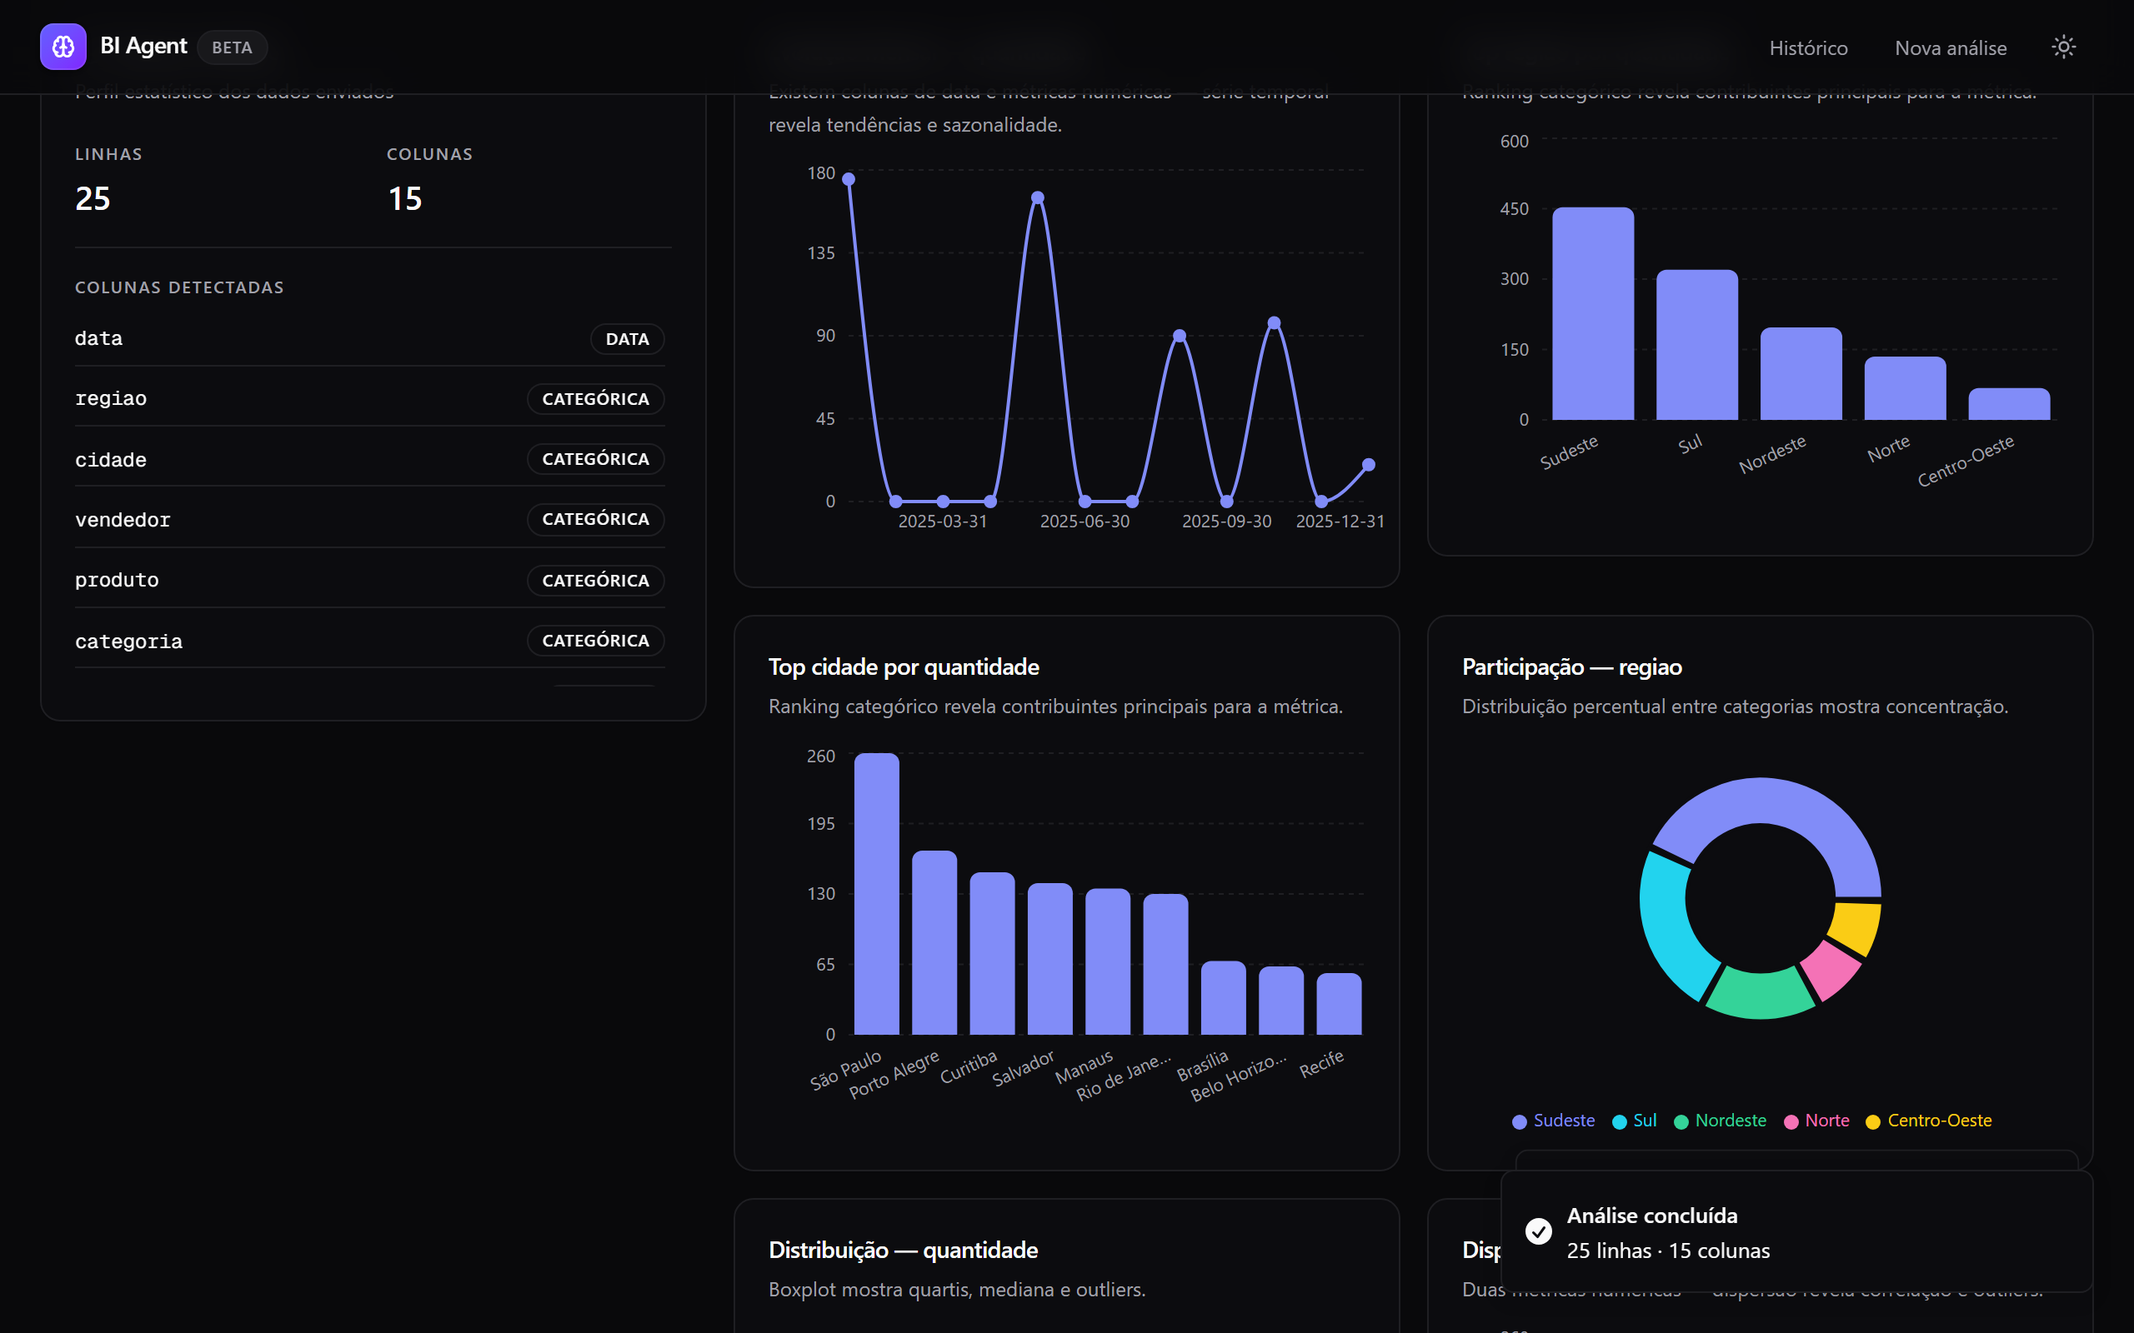
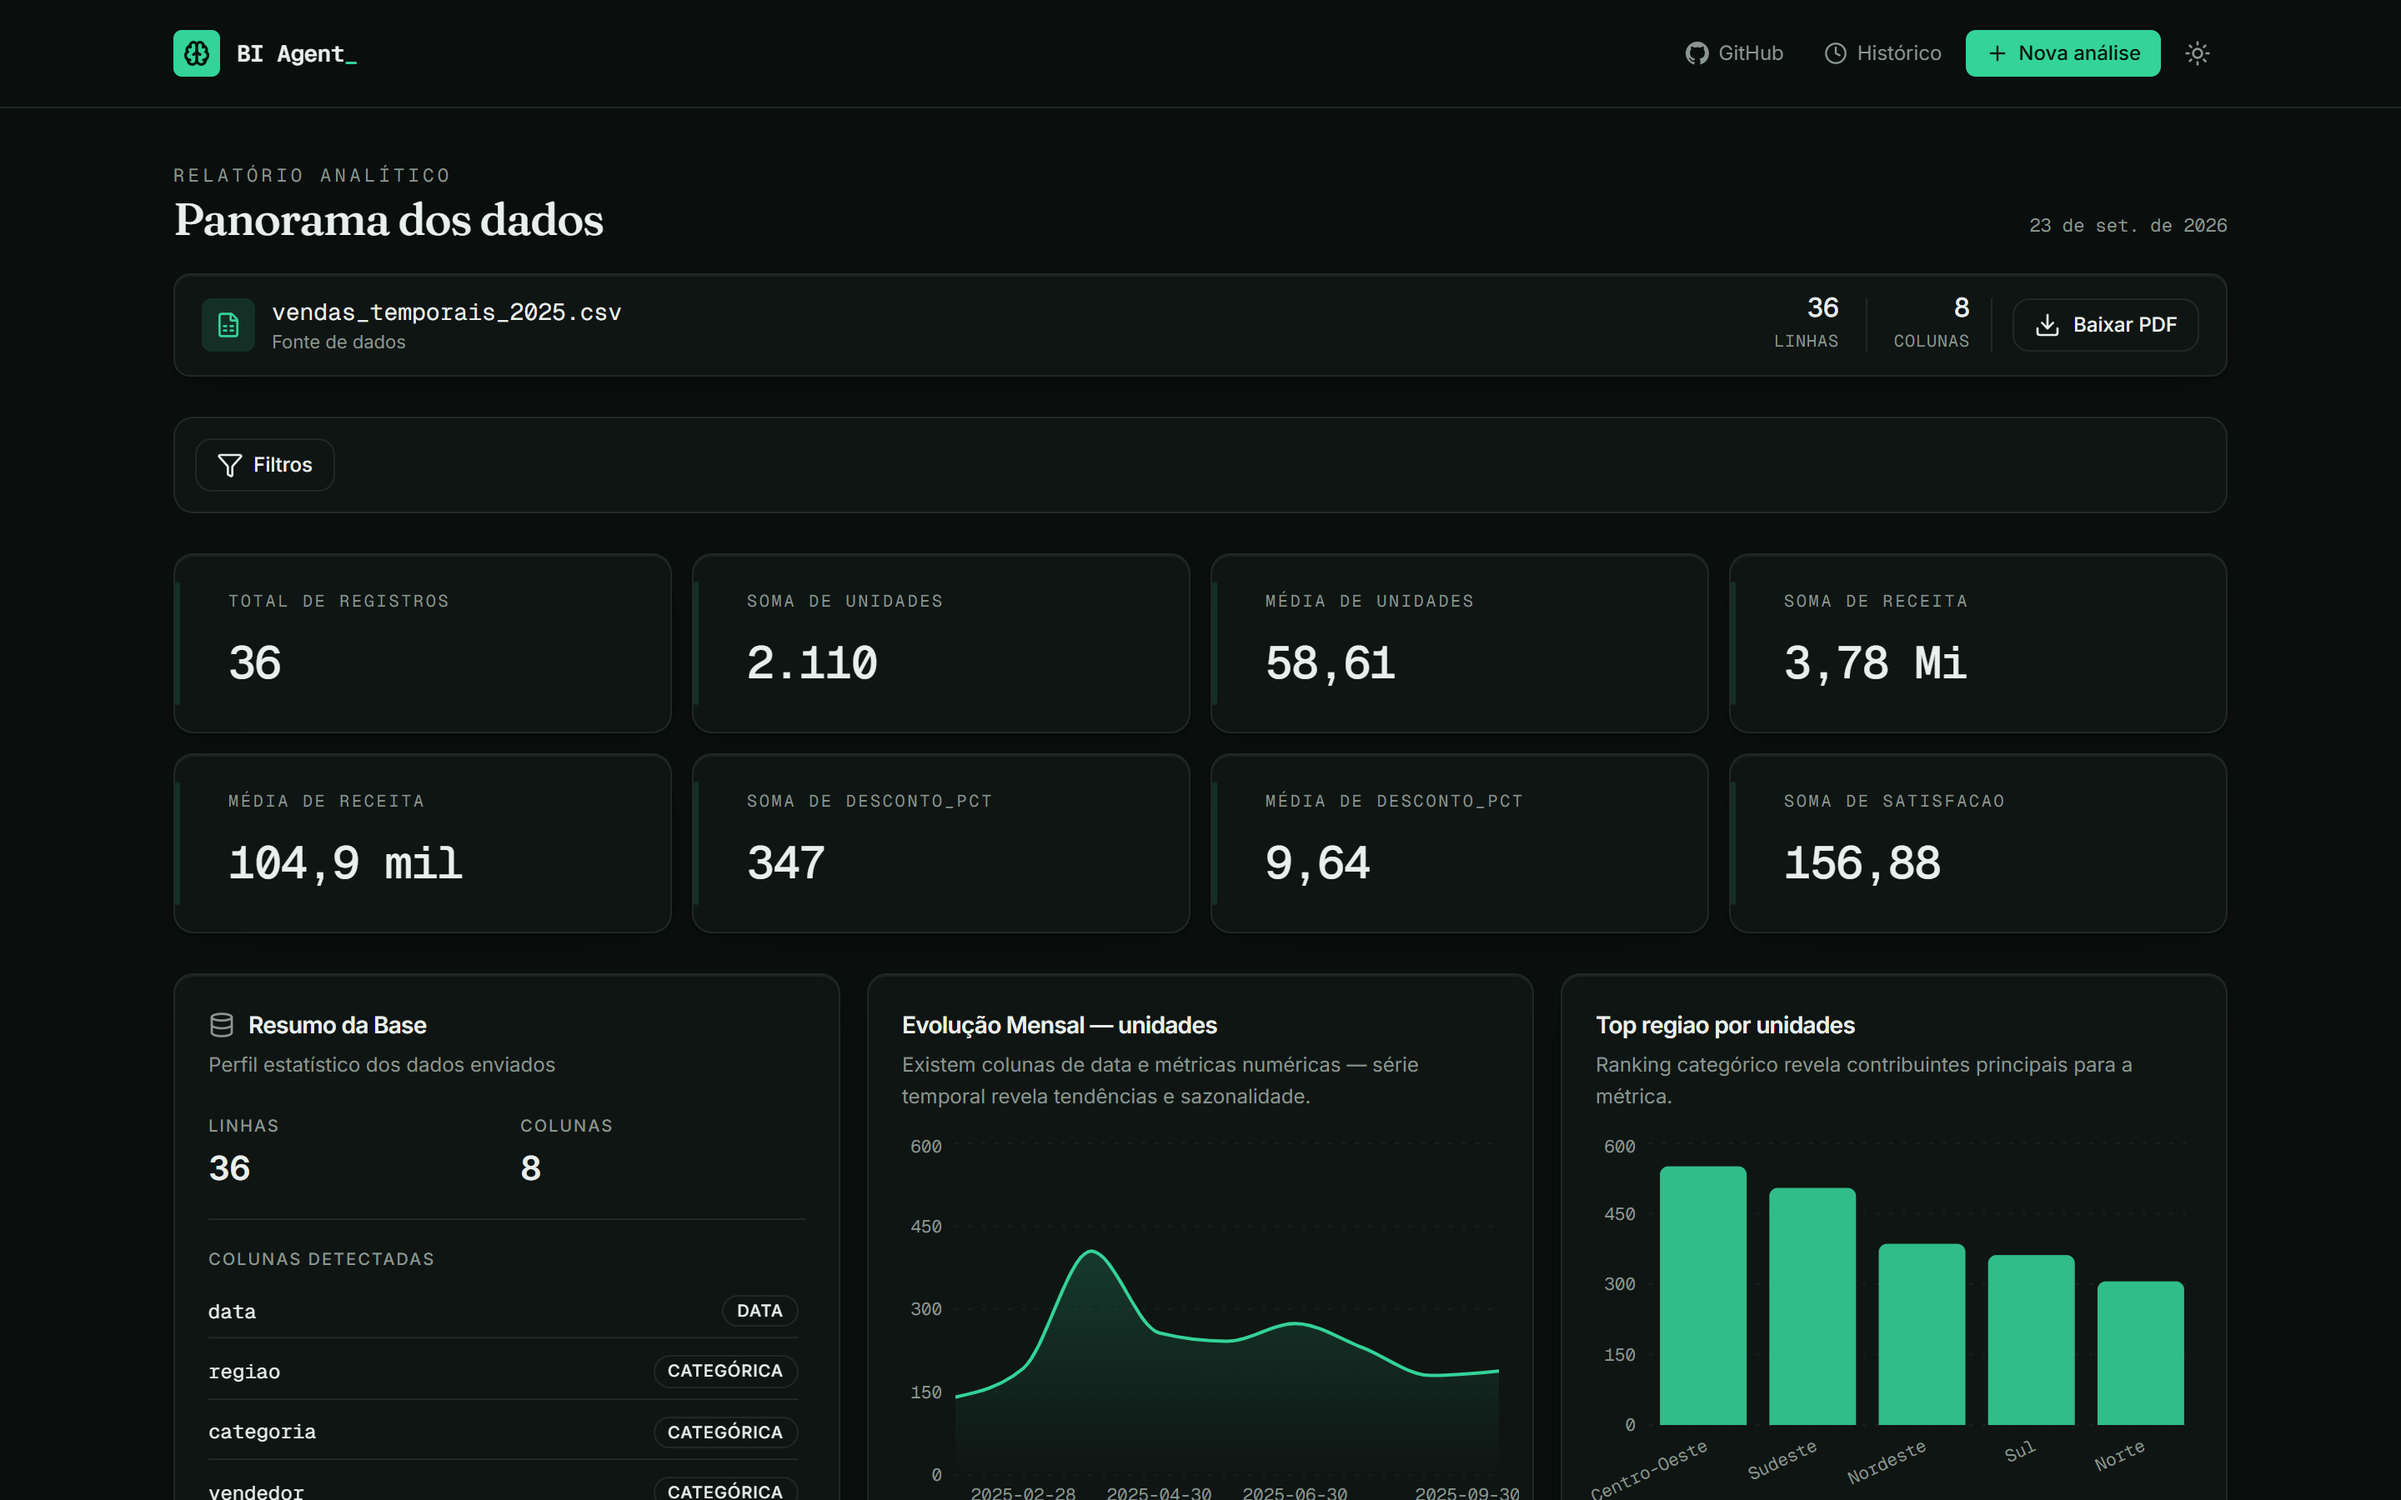
feat(frontend): finish emerald redesign and filter/KPI polish
- Pie chart tooltip no longer duplicates the slice label (title + row name)
- Numeric range slider uses a rounded "nice" step (1/2/2.5/5/10 x 10^n)
- Dual-range slider: min thumb stays grabbable when thumbs cluster at either
  end; pending-changes dot respects prefers-reduced-motion
- KPI count-up animates from the previous value on filter re-apply (still
  boots from 0 on first load)
- History page redesigned to the editorial identity (serif header, mono index,
  emerald file icon, material elevation)
- PDF report (report/) recolored to emerald (cover gradient indigo->purple
  becomes emerald->teal; charts/profile palette); @media print untouched
- Regenerated "how it works" thumbnails with the new visuals
- Cleanup: `.tnum` -> Tailwind `tabular-nums`; removed unused `--elevated` token
- Adds planilhas-de-teste/vendas_temporais_2025.csv (time-series fixture)

diff --git a/frontend/src/app/history/page.tsx b/frontend/src/app/history/page.tsx
@@ -1,7 +1,7 @@
 "use client";
 
 import { motion } from "framer-motion";
-import { ArrowRight, Clock, Database, FileText, Loader2, Trash2 } from "lucide-react";
+import { ArrowRight, Clock, Database, FileSpreadsheet, Loader2, Trash2 } from "lucide-react";
 import Link from "next/link";
 import { useRouter } from "next/navigation";
 import { useEffect, useState } from "react";
@@ -76,19 +76,24 @@ export default function HistoryPage() {
           initial={{ opacity: 0, y: 6 }}
           animate={{ opacity: 1, y: 0 }}
           transition={{ duration: 0.3 }}
-          className="mb-6"
+          className="mb-8 flex items-end justify-between gap-4"
         >
-          <div className="flex items-center justify-between mb-2">
-            <h1 className="text-2xl font-bold tracking-tight">Histórico</h1>
-            <Link href="/">
-              <Button variant="outline" size="sm">
-                Voltar
-              </Button>
-            </Link>
+          <div>
+            <p className="font-mono text-[11px] uppercase tracking-[0.2em] text-[var(--muted-foreground)]">
+              Sessões salvas{files && files.length > 0 ? ` · ${files.length}` : ""}
+            </p>
+            <h1 className="font-display text-2xl sm:text-[1.7rem] font-medium leading-tight tracking-tight text-[var(--foreground)]">
+              Histórico
+            </h1>
+            <p className="mt-1.5 text-sm text-[var(--muted-foreground)]">
+              Suas análises anteriores — clique para restaurar.
+            </p>
           </div>
-          <p className="text-sm text-[var(--muted-foreground)]">
-            Suas análises anteriores. Clique para restaurar.
-          </p>
+          <Link href="/" className="shrink-0">
+            <Button variant="outline" size="sm">
+              Voltar
+            </Button>
+          </Link>
         </motion.div>
 
         {files === null && (
@@ -99,7 +104,9 @@ export default function HistoryPage() {
 
         {files && files.length === 0 && (
           <Card className="p-12 text-center">
-            <Database className="h-8 w-8 mx-auto mb-3 text-[var(--muted-foreground)]" />
+            <div className="mx-auto mb-4 flex h-12 w-12 items-center justify-center rounded-lg bg-[var(--primary-dim)] text-[var(--primary)]">
+              <Database className="h-5 w-5" />
+            </div>
             <p className="text-sm font-medium">Nenhuma análise armazenada</p>
             <p className="text-xs text-[var(--muted-foreground)] mt-1">
               Envie uma planilha na tela inicial pra começar.
@@ -131,16 +138,19 @@ export default function HistoryPage() {
                 }}
                 className="group w-full text-left cursor-pointer focus:outline-none focus-visible:ring-2 focus-visible:ring-[var(--ring)] rounded-xl"
               >
-                <Card className="p-4 hover:border-[var(--muted-foreground)]/40 transition-colors">
+                <Card className="p-4 transition-all duration-200 hover:-translate-y-0.5 hover:border-[color-mix(in_oklab,var(--primary)_40%,var(--border))] hover:shadow-[var(--shadow-card-hover)]">
                   <div className="flex items-center gap-4">
-                    <div className="flex h-10 w-10 items-center justify-center rounded-lg bg-[var(--muted)] shrink-0">
-                      <FileText className="h-5 w-5 text-[var(--muted-foreground)]" />
+                    <span className="w-6 shrink-0 text-right font-mono text-[11px] tabular-nums text-[var(--muted-foreground)]">
+                      {String(i + 1).padStart(2, "0")}
+                    </span>
+                    <div className="flex h-10 w-10 items-center justify-center rounded-md bg-[var(--primary-dim)] text-[var(--primary)] shrink-0">
+                      <FileSpreadsheet className="h-5 w-5" />
                     </div>
                     <div className="flex-1 min-w-0">
-                      <p className="font-mono text-sm truncate">
+                      <p className="font-mono text-sm truncate text-[var(--foreground)]">
                         {f.filename ?? f.file_id}
                       </p>
-                      <div className="flex items-center gap-3 mt-1 text-[11px] text-[var(--muted-foreground)]">
+                      <div className="flex items-center gap-3 mt-1 font-mono text-[11px] text-[var(--muted-foreground)]">
                         <span className="inline-flex items-center gap-1">
                           <Clock className="h-3 w-3" />
                           {formatDate(f.uploaded_at)}

diff --git a/frontend/src/components/FilterBar.tsx b/frontend/src/components/FilterBar.tsx
@@ -285,7 +285,7 @@ export default function FilterBar({
             >
               {isDirty ? (
                 <span className="inline-flex items-center gap-1.5">
-                  <span className="inline-block h-1.5 w-1.5 rounded-full bg-[var(--primary)] animate-pulse" />
+                  <span className="inline-block h-1.5 w-1.5 rounded-full bg-[var(--primary)] animate-pulse motion-reduce:animate-none" />
                   Alterações pendentes — clique Aplicar para atualizar o dashboard.
                 </span>
               ) : activeCount > 0 ? (
@@ -333,6 +333,17 @@ function toNum(v: number | string | null | undefined, numeric: boolean): number 
 
 function clamp(v: number, lo: number, hi: number): number {
   return Math.min(hi, Math.max(lo, v));
+}
+
+// Passo "arredondado" (1 / 2 / 2.5 / 5 / 10 × potência de 10), ~1% da faixa,
+// para o arraste cair em valores redondos em vez de frações quebradas.
+function niceStep(range: number, integer: boolean): number {
+  const raw = range / 100 || 1;
+  const mag = Math.pow(10, Math.floor(Math.log10(raw)));
+  const norm = raw / mag;
+  const nice = norm <= 1 ? 1 : norm <= 2 ? 2 : norm <= 2.5 ? 2.5 : norm <= 5 ? 5 : 10;
+  const step = nice * mag;
+  return integer ? Math.max(1, Math.round(step)) : step;
 }
 
 function RangeInput({
@@ -404,9 +415,7 @@ function RangeInput({
   }
   const range = hasSlider ? hi! - lo! : 1;
   const step = numeric
-    ? Number.isInteger(lo) && Number.isInteger(hi)
-      ? Math.max(1, Math.round(range / 100))
-      : range / 100
+    ? niceStep(range, Number.isInteger(lo) && Number.isInteger(hi))
     : 86_400_000; // 1 dia em ms
   const pctMin = hasSlider ? ((curMinNum - lo!) / range) * 100 : 0;
   const pctMax = hasSlider ? ((curMaxNum - lo!) / range) * 100 : 100;
@@ -437,7 +446,9 @@ function RangeInput({
               value={curMinNum}
               onChange={(e) => commit(Number(e.target.value), curMaxNum)}
               aria-label={`${col} mínimo`}
-              style={{ zIndex: pctMin > 88 ? 5 : 3 }}
+              // Punho de mínimo por cima quando os dois se agrupam num extremo
+              // (à direita: pctMin alto; à esquerda: pctMax baixo), para não travar.
+              style={{ zIndex: pctMin > 80 || pctMax < 20 ? 5 : 3 }}
             />
             <input
               type="range"

diff --git a/frontend/src/components/KPICard.tsx b/frontend/src/components/KPICard.tsx
@@ -1,7 +1,7 @@
 "use client";
 
 import { animate, motion, useReducedMotion } from "framer-motion";
-import { useEffect, useState } from "react";
+import { useEffect, useRef, useState } from "react";
 import type { KPI } from "@/lib/api";
 import { fmtCompactBR, fmtNumberBR } from "@/lib/format";
 import { Card } from "@/components/ui/card";
@@ -25,8 +25,10 @@ type Props = { kpi: KPI; index?: number };
 export default function KPICard({ kpi, index = 0 }: Props) {
   const reduceMotion = useReducedMotion();
   const target = kpi.value;
-  // Count-up: o número sobe de 0 ao valor final ao carregar, como um terminal
-  // inicializando. Desativado para quem prefere menos movimento.
+  // Count-up: no 1º carregamento sobe de 0 (efeito "terminal"); ao reaplicar
+  // filtros, anima do valor anterior → novo (não recomeça do zero).
+  // `currentRef` guarda o último valor exibido, ponto de partida da animação.
+  const currentRef = useRef(0);
   const [display, setDisplay] = useState<number | null>(
     target === null || target === undefined ? null : reduceMotion ? target : 0,
   );
@@ -37,14 +39,18 @@ export default function KPICard({ kpi, index = 0 }: Props) {
       return;
     }
     if (reduceMotion) {
+      currentRef.current = target;
       setDisplay(target);
       return;
     }
-    const controls = animate(0, target, {
+    const controls = animate(currentRef.current, target, {
       duration: 0.85,
       delay: index * 0.05,
       ease: [0.16, 1, 0.3, 1],
-      onUpdate: (v) => setDisplay(v),
+      onUpdate: (v) => {
+        currentRef.current = v;
+        setDisplay(v);
+      },
     });
     return () => controls.stop();
   }, [target, reduceMotion, index]);
@@ -73,7 +79,7 @@ export default function KPICard({ kpi, index = 0 }: Props) {
           <TooltipProvider delayDuration={200}>
             <Tooltip>
               <TooltipTrigger asChild>
-                <p className="mt-2.5 font-mono text-[1.7rem] font-medium tnum tracking-tight text-[var(--foreground)] truncate cursor-default">
+                <p className="mt-2.5 font-mono text-[1.7rem] font-medium tabular-nums tracking-tight text-[var(--foreground)] truncate cursor-default">
                   {value}
                 </p>
               </TooltipTrigger>

diff --git a/frontend/src/components/report/ReportChart.tsx b/frontend/src/components/report/ReportChart.tsx
@@ -21,15 +21,16 @@ import {
   YAxis,
 } from "recharts";
 
+// Paleta esmeralda/teal em tons próprios para impressão (base papel/creme).
 const COLORS = [
-  "#4f46e5",
+  "#0b9668",
+  "#0d9488",
   "#0891b2",
-  "#059669",
+  "#65a30d",
   "#d97706",
-  "#dc2626",
-  "#7c3aed",
-  "#db2777",
   "#0284c7",
+  "#c2410c",
+  "#6b7280",
 ];
 
 function fmtLabel(v: unknown) {
@@ -51,7 +52,7 @@ export default function ReportChart({ chart }: { chart: ChartSpec }) {
         <h3 className="report-chart-title">{chart.title}</h3>
         <p className="report-chart-desc">{chart.rationale}</p>
         <div className="report-chart-body">
-          {stats && <Boxplot stats={stats} color="#4f46e5" outlierColor="#dc2626" />}
+          {stats && <Boxplot stats={stats} color="#0b9668" outlierColor="#dc2626" />}
         </div>
       </div>
     );
@@ -59,7 +60,7 @@ export default function ReportChart({ chart }: { chart: ChartSpec }) {
   const data = (chart.data as { label?: string; value?: number; x?: number; y?: number }[]).map((d) => ({ ...d, label: fmtLabel(d.label) }));
   const axis = "#64748b";
   const grid = "#e2e8f0";
-  const primary = "#4f46e5";
+  const primary = "#0b9668";
 
   return (
     <div className="report-chart">

diff --git a/frontend/src/app/globals.css b/frontend/src/app/globals.css
@@ -5,7 +5,6 @@
   --color-foreground: var(--foreground);
   --color-card: var(--card);
   --color-card-foreground: var(--card-foreground);
-  --color-elevated: var(--elevated);
   --color-muted: var(--muted);
   --color-muted-foreground: var(--muted-foreground);
   --color-accent: var(--accent);
@@ -34,7 +33,6 @@
   --foreground: #0c1512;
   --card: #ffffff;
   --card-foreground: #0c1512;
-  --elevated: #ffffff;
   --muted: #eef2f0;
   --muted-foreground: #5c6862;
   --accent: #eef2f0;
@@ -60,7 +58,6 @@
   --foreground: #e9efec;
   --card: #0f1513;
   --card-foreground: #e9efec;
-  --elevated: #141b18;
   --muted: #151c19;
   --muted-foreground: #8a968f;
   --accent: #151c19;
@@ -102,13 +99,8 @@ body {
   color: var(--foreground);
 }
 
-/* Números tabulares: usados em KPIs, eixos e tabelas de dados */
 .font-display {
   font-family: var(--font-display);
-}
-.tnum {
-  font-variant-numeric: tabular-nums;
-  font-feature-settings: "tnum", "cv02";
 }
 
 /* Custom scrollbar */

diff --git a/frontend/src/app/report/[fileId]/report.css b/frontend/src/app/report/[fileId]/report.css
@@ -18,8 +18,8 @@
   --r-primary-soft: #d4eded;
   --r-accent-warm: #c45a3c;
   --r-accent-gold: #9a8520;
-  --r-brand: #4f46e5;
-  --r-brand-strong: #4338ca;
+  --r-brand: #0b9668;
+  --r-brand-strong: #0a7d57;
   --r-success: #16a34a;
   --r-warning: #ca8a04;
   --r-danger: #dc2626;
@@ -55,7 +55,7 @@
 
 .report-cover {
   padding: 22px 34px;
-  background: linear-gradient(135deg, var(--r-brand-strong) 0%, var(--r-brand) 50%, #7c3aed 100%);
+  background: linear-gradient(135deg, var(--r-brand-strong) 0%, var(--r-brand) 50%, #0d9488 100%);
   color: #ffffff;
   position: relative;
   display: grid;
@@ -239,7 +239,7 @@
   position: absolute;
   left: 0; top: 0; bottom: 0;
   width: 3px;
-  background: linear-gradient(180deg, var(--r-brand), #7c3aed);
+  background: linear-gradient(180deg, var(--r-brand), #0d9488);
 }
 .report-kpi-label {
   font-size: 9px;

diff --git a/frontend/src/components/ChartBlock.tsx b/frontend/src/components/ChartBlock.tsx
@@ -94,7 +94,9 @@ function ChartTooltip({
       <div className="space-y-1">
         {payload.map((p, i) => {
           const name = p.name != null ? String(p.name) : "";
-          const showName = name !== "" && name !== "value";
+          // Não repetir o nome quando ele já é o título (caso da pizza,
+          // onde título e nome vêm do mesmo rótulo da fatia).
+          const showName = name !== "" && name !== "value" && name !== title;
           return (
             <div key={i} className="flex items-center gap-2">
               <span

diff --git a/frontend/src/components/report/ReportProfile.tsx b/frontend/src/components/report/ReportProfile.tsx
@@ -14,7 +14,7 @@ const SEMANTIC_LABEL: Record<string, string> = {
 };
 
 const SEMANTIC_COLOR: Record<string, string> = {
-  numeric: "#4f46e5",
+  numeric: "#0b9668",
   categorical: "#0891b2",
   datetime: "#0891b2",
   datetime_like: "#0891b2",
